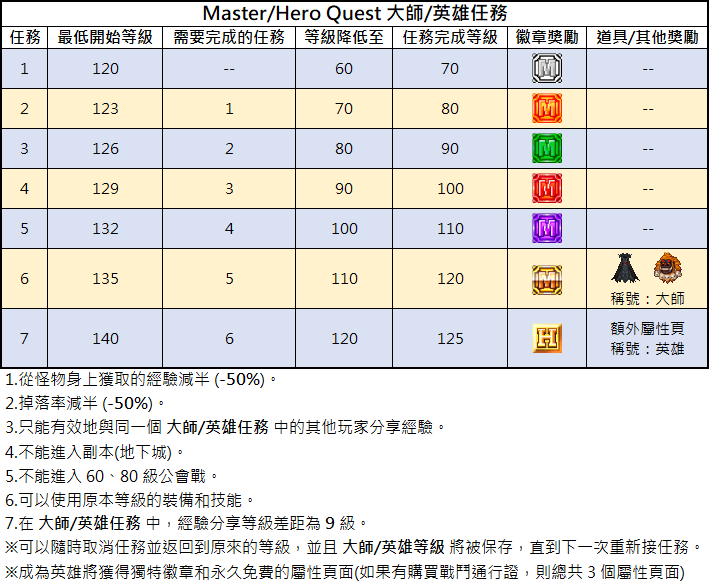
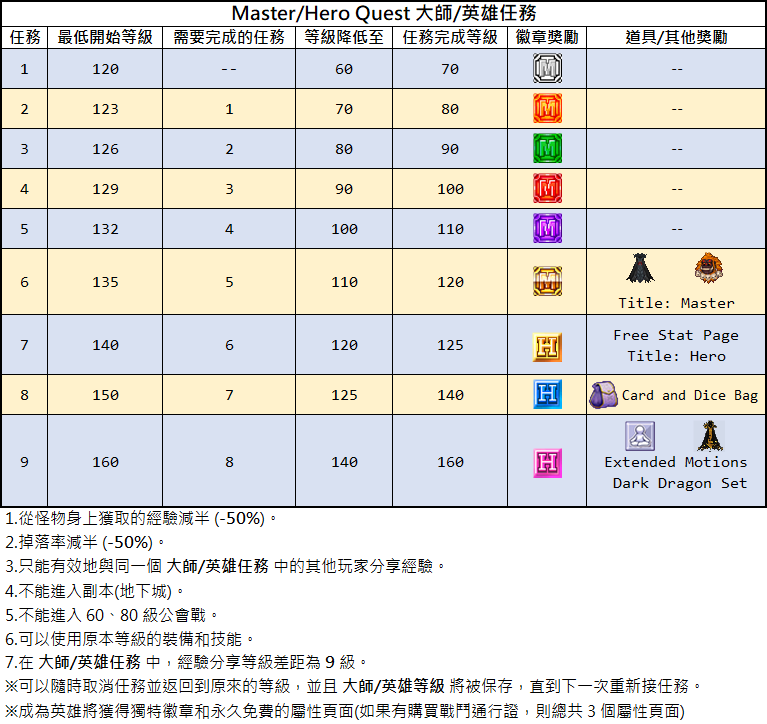
feat: update master&hero quests

diff --git a/README.md b/README.md
@@ -944,6 +944,8 @@ When the number of monsters attacked by the same spell (n) is greater than 8, th
 
 > source:[New Horizon Expansion (Flyff Universe Version 1.3.0)](https://universe.flyff.com/news/newhorizonv1301 "New Horizon Expansion (Flyff Universe Version 1.3.0)")
 
+> [Updates to Battle for Madrigal Expansion (Flyff Universe Version 1.4.1)](https://universe.flyff.com/news/ver141 "Updates to Battle for Madrigal Expansion (Flyff Universe Version 1.4.1)")
+
 <div align="center"><img src="./system/quest/master_hero_quests.png" alt="master_hero_quests.png"/></div>
 
 * Once you complete all of the Optional Master quest, you can try the new New Optional Hero quest at  [Master Quests] Leila. This quest will ask you to level up from `120` to `125` and gather `100` Symbols of Shade.
@@ -992,8 +994,11 @@ Those who have completed the Optional Master Quest during the event period will 
 
 * Becoming a Hero will give you a unique badge and a permanent free stat page (`3` stat pages in total if a Battle Pass is active).
 
-</details></td></tr></table>
+* Completing the Quest Hero 125 will give you a unique badge and a Card and Dice Bag that allows you to store up to 10 slots.
 
+* Completing the Quest Hero 140 will give you a unique badge, Extended Motions(contains 9 motions for your character) and Dark Dragon Set.
+
+</details></td></tr></table>
 
 </details>
 
